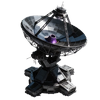
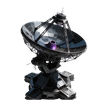
Fix planets

diff --git a/frontend/src/lib/ui/PlanetMap.svelte b/frontend/src/lib/ui/PlanetMap.svelte
@@ -276,20 +276,6 @@
           <polygon class="sel-hex-glow" points={HEX_POINTS} />
           <polygon class="sel-hex-stroke" points={HEX_POINTS} />
         </svg>
-        {#if selectedLevel}
-          <div class="sel-level">{selectedLevel}</div>
-        {/if}
-        {#if frameActions.stop}
-          <button
-            type="button"
-            class="sel-stop"
-            title="Стоп"
-            aria-label="Стоп"
-            on:pointerdown|stopPropagation
-            on:pointerup|stopPropagation
-            on:click|stopPropagation={() => dispatch('frame', 'stop')}
-          >✕</button>
-        {/if}
       </div>
 
       {#each buildings as row, y}
@@ -313,6 +299,25 @@
           {/if}
         {/each}
       {/each}
+
+      {#if selectedLevel || frameActions.stop}
+        <div class="sel-ui" style={`left:${sel.x}px; top:${sel.y}px; width:${TILE_W}px; height:${TILE_H}px`}>
+          {#if selectedLevel}
+            <div class="sel-level">{selectedLevel}</div>
+          {/if}
+          {#if frameActions.stop}
+            <button
+              type="button"
+              class="sel-stop"
+              title="Стоп"
+              aria-label="Стоп"
+              on:pointerdown|stopPropagation
+              on:pointerup|stopPropagation
+              on:click|stopPropagation={() => dispatch('frame', 'stop')}
+            >✕</button>
+          {/if}
+        </div>
+      {/if}
 
       {#each liveTimers as t ( `${t.x}x${t.y}` )}
         <div class="mtimer" style={`left:${t.pos.x}px; top:${t.pos.y}px; color:${t.color}`}>
@@ -513,11 +518,16 @@
     pointer-events: none;
   }
 
+  .sel-ui {
+    position: absolute;
+    z-index: 6;
+    pointer-events: none;
+  }
+
   .sel-level {
     position: absolute;
     left: 4px;
     top: 2px;
-    z-index: 3;
     min-width: 1.1em;
     padding: 0 3px;
     border-radius: 2px;
@@ -535,7 +545,6 @@
     position: absolute;
     right: 4px;
     top: 2px;
-    z-index: 4;
     width: 1.35em;
     height: 1.35em;
     padding: 0;

diff --git a/frontend/src/lib/planetMap.js b/frontend/src/lib/planetMap.js
@@ -5,7 +5,7 @@ export const TILE_W = 130;
 export const TILE_H = 100;
 export const ORIGIN_X = TILE_W / 2;
 export const ORIGIN_Y = TILE_H / 2;
-export const SPRITE_Y_OFFSET = -CELL_H / 4;
+export const SPRITE_Y_OFFSET = -CELL_H / 2;
 
 export const TERRAIN_COLORS = {
   '0': '#0066CC',
